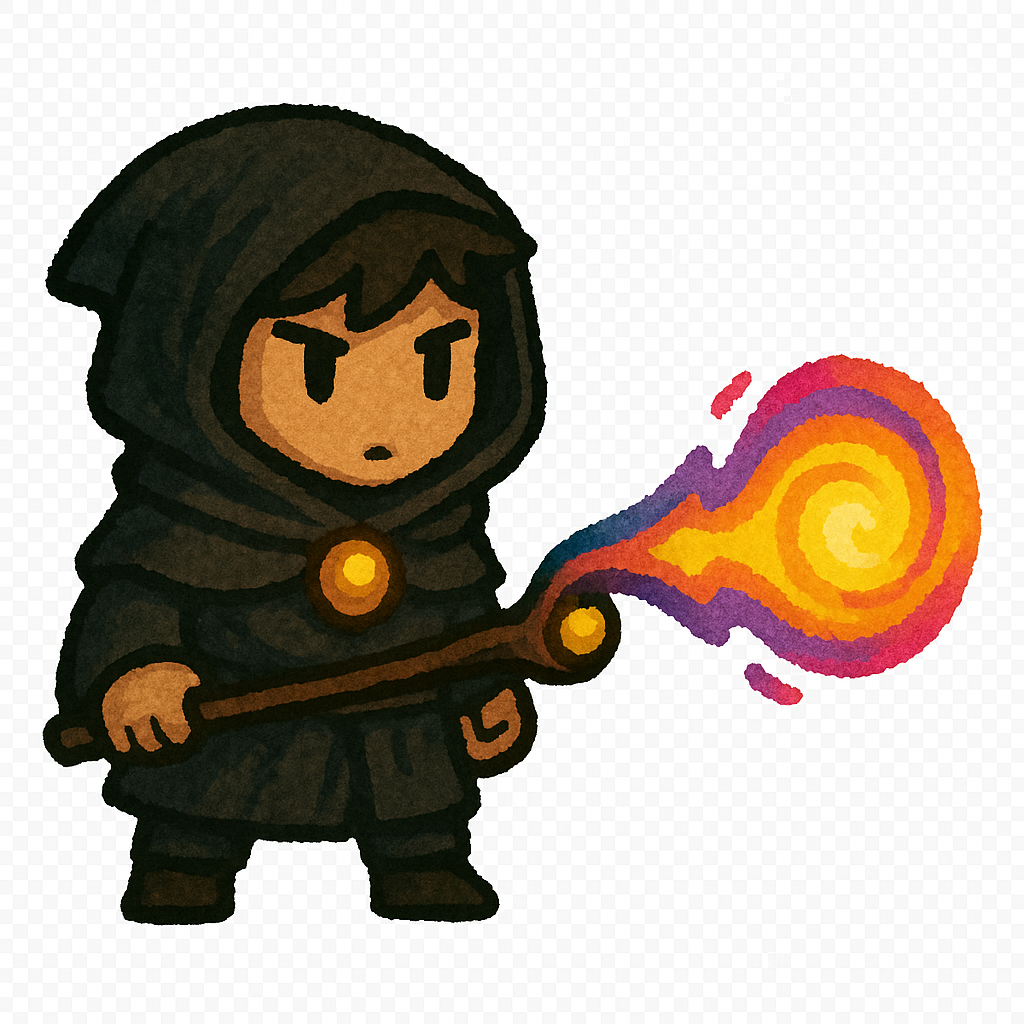
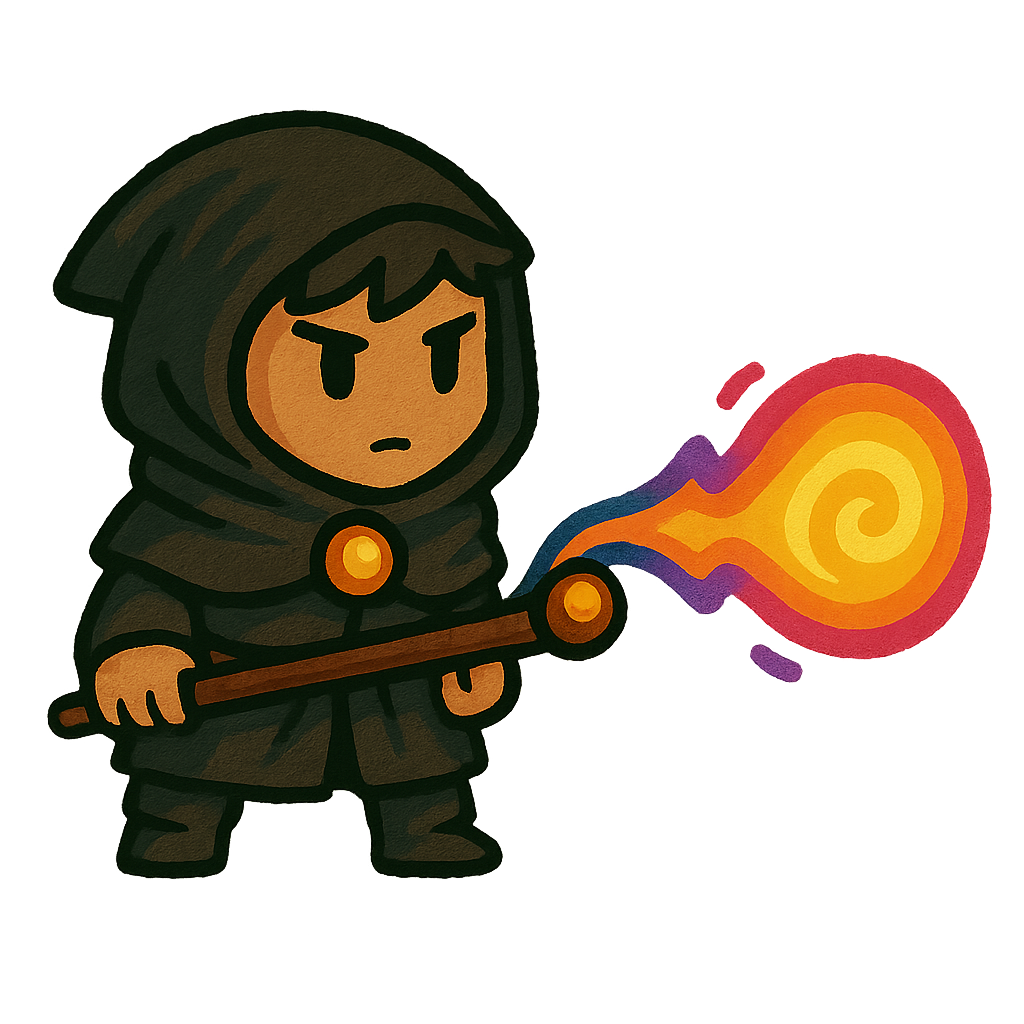
added weapon_change key (E) if E pressed character change between sword(no distance) and staff (distance projectil) both weapon mode attacks with (Q)

Changed region(s): [[0.0312, 0.0938, 0.9688, 0.9062], [0.2812, 0.1562, 0.3125, 0.1875], [0.0312, 0.25, 0.0625, 0.2812]]

diff --git a/main.py b/main.py
@@ -11,6 +11,7 @@ from objects_classes.tree import Tree
 from enemies_classes.goblin_mage import Goblin_Mage
 from enemies_classes.small_goblin import Small_Goblin
 from enemies_classes.wolf import Wolf
+from fire_shot import Fire_Shot
 
 FPS = 30
 WINWIDTH = 4* 240
@@ -52,7 +53,7 @@ def main():
     global FPSCLOCK, DISPLAYSURF, BASICFONT, BASICFONTLARGE, NUMSOFTREES
     global main_character, RHEROIMG, LHEROIMG, LENEMYIMG, RENEMYIMG, TREEIMG, treeimgheight, treeimgwidth,grass_tile_size, GRASSIMG, HEARTIMG, RBLACKHEARTIMG, LBLACKHEARTIMG
     global RSWORDPARTICLES, LSWORDPARTICLES, R2HEROIMG,L2HEROIMG, R3HEROIMG, L3HEROIMG, LGOBLINMAGEIMG, RGOBLINMAGEIMG, LSMALLGOBLINIMG, RSMALLGOBLINIMG
-    global RWOLF, LWOLF, RHEROMAGEIMG, LHEROMAGEIMG
+    global RWOLF, LWOLF, RHEROMAGEIMG, LHEROMAGEIMG, MANUALIMG, RHEROMAGEATTIMG, LHEROMAGEATTIMG, RMAGEPROJEKTIL, LMAGEPROJEKTIL
     pygame.init()
     FPSCLOCK = pygame.time.Clock()
     DISPLAYSURF = pygame.display.set_mode((WINWIDTH, WINHEIGHT))
@@ -77,6 +78,10 @@ def main():
     RHEROMAGEIMG = pygame.image.load('graphics/hero_img/hero_mage.png')
     RHEROMAGEIMG = pygame.transform.scale(RHEROMAGEIMG,(100, 100))
     LHEROMAGEIMG = pygame.transform.flip(RHEROMAGEIMG, True, False)
+
+    RHEROMAGEATTIMG = pygame.image.load('graphics/hero_img/hero_mage_attack.png')
+    RHEROMAGEATTIMG = pygame.transform.scale(RHEROMAGEATTIMG,(120, 120))
+    LHEROMAGEATTIMG = pygame.transform.flip(RHEROMAGEATTIMG, True, False)
     #enemy imgs
     LENEMYIMG = pygame.image.load('graphics/enemies_img/skull_enemy.png')
     LENEMYIMG = pygame.transform.scale(LENEMYIMG,(130, 100))
@@ -103,11 +108,19 @@ def main():
     GRASSIMG = pygame.image.load('graphics/other_img/grass_v3.png')
     GRASSIMG = pygame.transform.scale(GRASSIMG,(WINWIDTH,WINWIDTH))
 
+    MANUALIMG = pygame.image.load('graphics/other_img/manual.png')
+    MANUALIMG = pygame.transform.scale(MANUALIMG,(250,200))
+
     HEARTIMG = pygame.image.load('graphics/hero_img/heart.png')
     HEARTIMG = pygame.transform.scale(HEARTIMG, (20,20))
     RBLACKHEARTIMG = pygame.image.load('graphics/hero_img/black_heart_r.png')
     RBLACKHEARTIMG = pygame.transform.scale(RBLACKHEARTIMG, (20,20))
     LBLACKHEARTIMG = pygame.transform.flip(RBLACKHEARTIMG, True, False)
+
+    RMAGEPROJEKTIL = pygame.image.load('graphics/hero_img/hero_mage_projektil.png')
+    RMAGEPROJEKTIL = pygame.transform.scale(RMAGEPROJEKTIL, (50,50) )
+    LMAGEPROJEKTIL = pygame.transform.flip(RMAGEPROJEKTIL, True, False)
+
     RSWORDPARTICLES = pygame.image.load('graphics/hero_img/sword_particles.png')
     RSWORDPARTICLES = pygame.transform.scale(RSWORDPARTICLES, (120,180) )
     LSWORDPARTICLES = pygame.transform.flip(RSWORDPARTICLES, True, False)
@@ -123,7 +136,7 @@ def run_game():
     # initial values are set to defaul for easy reset
     global FPSCLOCK, DISPLAYSURF, main_character, NUMSOFTREES, NUMSENEMY
     global moveDown, moveLeft, moveRight, moveUp, camera_x, camera_y, attackKey
-    global gameOverMode, winMode, immortalityMode, immortalityStartTime, trees_objs, enemy1, enemy1_objs, goblinmage1_objs, smallgoblin1_objs
+    global gameOverMode, winMode, immortalityMode, immortalityStartTime, trees_objs, enemy1, enemy1_objs, goblinmage1_objs, smallgoblin1_objs, fire_shot_objs
     immortalityMode = False
     immortalityStartTime = 0
     gameOverMode = False        
@@ -135,8 +148,10 @@ def run_game():
     enemy1_objs = []
     goblinmage1_objs = []
     smallgoblin1_objs = []
+    fire_shot_objs = []
     # creating a Player Character
-    main_character = Hero(RHEROIMG, HALFWINWIDTH, HALFWINHEIGHT, STARTLEVEL, MAXHEALTH , HEARTIMG, RBLACKHEARTIMG, LBLACKHEARTIMG, RHEROMAGEIMG, LHEROMAGEIMG, LHEROIMG)
+    main_character = Hero(RHEROIMG, HALFWINWIDTH, HALFWINHEIGHT, STARTLEVEL, MAXHEALTH , HEARTIMG, RBLACKHEARTIMG, LBLACKHEARTIMG, RHEROMAGEIMG, LHEROMAGEIMG, LHEROIMG, Fire_Shot,
+                          RMAGEPROJEKTIL, LMAGEPROJEKTIL)
     
 
     moveLeft = False
@@ -242,6 +257,12 @@ def run_game():
         draw_hero(main_character,camera_x,camera_y,attackKey)
         main_character.draw_health_bar(DISPLAYSURF)
 
+        for (fireshot1) in fire_shot_objs:
+            check_for_fire_shot_collision(main_character, fireshot1, fireshot1.image,enemy1_objs)
+            check_for_fire_shot_collision(main_character, fireshot1, fireshot1.image,smallgoblin1_objs)
+            check_for_fire_shot_collision(main_character, fireshot1, fireshot1.image,goblinmage1_objs)
+
+
         for (enemy1) in enemy1_objs:
             draw_entity(enemy1, camera_x, camera_y)
             enemy1.move(main_character.position_x,main_character.position_y)
@@ -263,6 +284,21 @@ def run_game():
         for (smallgoblin1) in smallgoblin1_objs:         
             draw_entity(smallgoblin1, camera_x, camera_y)
             smallgoblin1.move(main_character.position_x,main_character.position_y)
+
+        for (fire_shot1) in fire_shot_objs:
+            for move in range(fire_shot1.difficulty):
+                """"
+                if fire_shot1.position_x - camera_x >  -WINWIDTH - camera_x:
+                    print("remove1")
+                    fire_shot_objs.remove(fire_shot1)
+                    break
+                if fire_shot1.position_x - camera_x < 0 -camera_x:
+                    print("remove2")
+                    fire_shot_objs.remove(fire_shot1)
+                    break
+                """
+                draw_entity(fire_shot1, camera_x, camera_y)
+                fire_shot1.move()
 
         for event in pygame.event.get(): # event handling cycle
             if event.type == QUIT:
@@ -362,7 +398,10 @@ def draw_hero(hero, camera_x, camera_y,attackKey): # draw player on screen
     heroRect.center = (hero.position_x - camera_x, hero.position_y - camera_y)
     DISPLAYSURF.blit(hero.image, heroRect)
     if attackKey == True:
-            hero_attack_sword(main_character)
+            if hero.weapon_mode == "sword":
+                hero_attack_sword(main_character)
+            elif hero.weapon_mode == "mage":
+                hero_attack_mage(main_character)
 
 
 def moving_hero(hero, moveLeft, moveRight, moveUp, moveDown): # move player
@@ -412,6 +451,8 @@ def hero_attack_sword(hero):
             draw_entity(enemy1, camera_x, camera_y)
         for (goblinmage1) in goblinmage1_objs:
             draw_entity(goblinmage1, camera_x, camera_y)
+        for (smallgoblin1) in smallgoblin1_objs:
+            draw_entity(smallgoblin1, camera_x, camera_y)
         hero.draw_health_bar(DISPLAYSURF)
         draw_entity(hero,camera_x-10,camera_y)
         pygame.display.update()
@@ -427,6 +468,8 @@ def hero_attack_sword(hero):
             draw_entity(enemy1, camera_x, camera_y)
         for (goblinmage1) in goblinmage1_objs:
             draw_entity(goblinmage1, camera_x, camera_y)
+        for (smallgoblin1) in smallgoblin1_objs:
+            draw_entity(smallgoblin1, camera_x, camera_y)
         draw_entity(hero,camera_x-10,camera_y)
         DISPLAYSURF.blit(RSWORDPARTICLES, particlesRect)
         pygame.display.update()
@@ -476,39 +519,40 @@ def hero_attack_sword(hero):
 
 def hero_attack_mage(hero):
     if hero.image == hero.rimage_mage:
-        hero.image = R2HEROIMG
+        hero.image = RHEROMAGEATTIMG
         draw_background()
         draw_trees(trees_objs)
         for (enemy1) in enemy1_objs:
             draw_entity(enemy1, camera_x, camera_y)
         for (goblinmage1) in goblinmage1_objs:
             draw_entity(goblinmage1, camera_x, camera_y)
+        for (smallgoblin1) in smallgoblin1_objs:
+            draw_entity(smallgoblin1, camera_x, camera_y)
         hero.draw_health_bar(DISPLAYSURF)
         draw_entity(hero,camera_x-10,camera_y)
         pygame.display.update()
         pygame.time.wait(5)
-        particlesRect = RSWORDPARTICLES.get_rect()
-        particlesRect.center = (hero.position_x+30 - camera_x, hero.position_y - camera_y)
-        DISPLAYSURF.blit(RSWORDPARTICLES, particlesRect)
+        fire_shot_objs1 = hero.generate_fire_shot()
+        fire_shot_objs.append(fire_shot_objs1)
+        draw_entity(fire_shot_objs1,camera_x,camera_y)
         pygame.display.update()
-        hero.image = R3HEROIMG
         draw_background()
         draw_trees(trees_objs)
         for (enemy1) in enemy1_objs:
             draw_entity(enemy1, camera_x, camera_y)
         for (goblinmage1) in goblinmage1_objs:
             draw_entity(goblinmage1, camera_x, camera_y)
+        for (smallgoblin1) in smallgoblin1_objs:
+            draw_entity(smallgoblin1, camera_x, camera_y)
         draw_entity(hero,camera_x-10,camera_y)
-        DISPLAYSURF.blit(RSWORDPARTICLES, particlesRect)
+        #DISPLAYSURF.blit(RSWORDPARTICLES, particlesRect)
         pygame.display.update()
         hero.image = hero.rimage_mage
-        check_for_attack_collision(hero, RSWORDPARTICLES, +30, enemy1_objs)
-        check_for_attack_collision(hero, RSWORDPARTICLES, +30, goblinmage1_objs)
-        check_for_attack_collision(hero, RSWORDPARTICLES, +30, smallgoblin1_objs)
+
                 
 
     if hero.image == hero.limage_mage:
-        hero.image = L2HEROIMG
+        hero.image = LHEROMAGEATTIMG
         draw_background()
         draw_trees(trees_objs)
         for (enemy1) in enemy1_objs:
@@ -521,11 +565,10 @@ def hero_attack_mage(hero):
         draw_entity(hero,camera_x-10,camera_y)
         pygame.display.update()
         pygame.time.wait(5)
-        particlesRect = LSWORDPARTICLES.get_rect()
-        particlesRect.center = (hero.position_x-30 - camera_x, hero.position_y - camera_y)
-        DISPLAYSURF.blit(LSWORDPARTICLES, particlesRect)
+        fire_shot_objs1 = hero.generate_fire_shot()
+        fire_shot_objs.append(fire_shot_objs1)
+        draw_entity(fire_shot_objs1,camera_x,camera_y)
         pygame.display.update()
-        hero.image = L3HEROIMG
         draw_background()
         draw_trees(trees_objs)
         for (enemy1) in enemy1_objs:
@@ -535,12 +578,9 @@ def hero_attack_mage(hero):
         for (smallgoblin1) in smallgoblin1_objs:
             draw_entity(smallgoblin1, camera_x, camera_y)
         draw_entity(hero,camera_x-10,camera_y)
-        DISPLAYSURF.blit(LSWORDPARTICLES, particlesRect)
+        #DISPLAYSURF.blit(LSWORDPARTICLES, particlesRect)
         pygame.display.update()
         hero.image = hero.limage_mage
-        check_for_attack_collision(hero, LSWORDPARTICLES, -30, enemy1_objs)
-        check_for_attack_collision(hero, LSWORDPARTICLES, -30, goblinmage1_objs)
-        check_for_attack_collision(hero, RSWORDPARTICLES, -30, smallgoblin1_objs)
     pass
 
 def check_for_attack_collision(hero, SWORDPARTICLES, z_value, enemy_obj):
@@ -550,12 +590,28 @@ def check_for_attack_collision(hero, SWORDPARTICLES, z_value, enemy_obj):
     for (enemy) in enemy_obj:
         enemyRect = enemy.get_enemy_rect(camera_x,camera_y)
         if particlesRect.colliderect(enemyRect):
-            enemy.is_hit(main_character.position_x,main_character.position_y)
+            enemy.is_hit(main_character.position_x,main_character.position_y, 1)
             if enemy.current_health == 0:
                 hero.level += 1
                 enemy_obj.remove(enemy)
                 if hero.current_health < hero.max_health:
                     hero.current_health += 1
+    pass
+
+def check_for_fire_shot_collision(hero,fireshot1, FIRESHOT, enemy_obj):
+    particles_width = FIRESHOT.get_width()
+    particles_height = FIRESHOT.get_height()
+    particlesRect = pygame.Rect(fireshot1.position_x-camera_x - particles_width//2,fireshot1.position_y-camera_y-particles_height//2, particles_width, particles_height)
+    for (enemy) in enemy_obj:
+        enemyRect = enemy.get_enemy_rect(camera_x,camera_y)
+        if particlesRect.colliderect(enemyRect):
+            enemy.is_hit(main_character.position_x,main_character.position_y, 1)
+            if enemy.current_health == 0:
+                hero.level += 1
+                enemy_obj.remove(enemy)
+                if hero.current_health < hero.max_health:
+                    hero.current_health += 1
+           
     pass
 
 def draw_background():
@@ -607,10 +663,11 @@ def game_over():
     level_surface = BASICFONT.render(f"Level achieved: {main_character.level}", False, WHITE)
     DISPLAYSURF.blit(text_surface,(125,50))
     DISPLAYSURF.blit(level_surface,(240,255))
+    DISPLAYSURF.blit(MANUALIMG,(700,500))
     draw_hero(main_character,0,0,False)
 
     button("Try Again", 100, 550,WHITE,DARKGREEN)
-    button("Quit", 2*HALFWINWIDTH-300,550,WHITE,DARKRED)
+    button("Quit", 2*HALFWINWIDTH-450,550,WHITE,DARKRED)
 
     try:
         get_qr(f"Hero level: {main_character.level}") # More info in the future (max wave, max hps, etc...)
@@ -634,10 +691,10 @@ def game_over():
                 else:
                     button("Try Again", 100, 550, WHITE,DARKGREEN)
 
-                if (2*HALFWINWIDTH-300 < mouse_x < 2*HALFWINWIDTH+138) and (550 < mouse_y < 592):
-                    button("Quit", 2*HALFWINWIDTH-300,550,DARKRED,WHITE)
+                if (2*HALFWINWIDTH-450 < mouse_x < 2*HALFWINWIDTH-288) and (550 < mouse_y < 592):
+                    button("Quit", 2*HALFWINWIDTH-450,550,DARKRED,WHITE)
                 else:
-                    button("Quit", 2*HALFWINWIDTH-300,550,WHITE,DARKRED)
+                    button("Quit", 2*HALFWINWIDTH-450,550,WHITE,DARKRED)
 
             #                if ()
             
@@ -647,7 +704,7 @@ def game_over():
                 if (100 < mouse_x < 262) and (550 < mouse_y < 592):
                     run_game() # not sure of the recursion 
                     return
-                elif (2*HALFWINWIDTH-300 < mouse_x < 2*HALFWINWIDTH+138) and (550 < mouse_y < 592):
+                elif (960-450 < mouse_x < 940-288) and (550 < mouse_y < 592):
                     terminate()
 
     

diff --git a/hero.py b/hero.py
@@ -1,7 +1,8 @@
 import pygame
 
 class Hero():
-    def __init__(self,image, position_x, position_y, level, max_health, heart_image,bheart_r_image,bheart_l_image, image_mage, limage_mage, l_image):
+    def __init__(self,image, position_x, position_y, level, max_health, heart_image,bheart_r_image,bheart_l_image, image_mage, limage_mage, l_image, fire_shot_class,
+                  rfire_shot_img, lfire_shot_img):
         self.position_x : int = position_x
         self.position_y : int = position_y
         self.current_health : int = max_health
@@ -17,6 +18,10 @@ class Hero():
         self.bheart_l_image : str = bheart_l_image
         self.weapon_mode = "sword"
         self.direction = "right"
+        self.fire_shots_objs = None
+        self.fire_shot_class = fire_shot_class
+        self.rfire_shotimg = rfire_shot_img
+        self.lfire_shotimg = lfire_shot_img
     
     def is_alive(self):
         if self.current_health <= 0:
@@ -60,4 +65,17 @@ class Hero():
             elif self.direction == "left":
                 self.image = self.limage_sword
                 self.weapon_mode = "sword"
+        pass
+
+    def generate_fire_shot(self):
+        if self.direction == "right":
+            fsimage = self.rfire_shotimg
+            xpos = self.position_x +60
+        elif self.direction == "left":
+            xpos = self.position_x -60
+            fsimage = self.lfire_shotimg
+        ypos = self.position_y
+        return self.fire_shot_class(fsimage, xpos, ypos, 12, self.direction)
+         
+
         pass

diff --git a/fire_shot.py b/fire_shot.py
@@ -1,0 +1,29 @@
+import random, pygame
+
+class Fire_Shot():
+    def __init__(self, image,position_x, position_y, difficulty, direction):
+        self.position_x : int = position_x
+        self.position_y : int = position_y
+        self.difficulty : int = difficulty 
+        self.image : str = image 
+        self.direction = direction
+
+    
+    
+    def move(self):
+        if self.direction == "right":
+            self.position_x += 1
+        elif self.direction == "left":
+            self.position_x -=1
+       
+
+    def get_enemy_rect(self,camera_x,camera_y):
+        enemy_width = self.image.get_width()
+        enemy_height = self.image.get_height()
+        enemyRect = pygame.Rect(self.position_x-camera_x - enemy_width//2, self.position_y-camera_y-enemy_height//2, enemy_width, enemy_height)
+        return enemyRect
+    
+    def get_enemy_attackbox(self,camera_x,camera_y):
+        enemyRect = pygame.Rect(self.position_x-camera_x - 1, self.position_y-camera_y - 1, 2, 2)
+        return enemyRect
+        

diff --git a/enemies_classes/small_goblin.py b/enemies_classes/small_goblin.py
@@ -106,12 +106,9 @@ class Small_Goblin():
         enemyRect = pygame.Rect(self.position_x-camera_x - 1, self.position_y-camera_y - 1, 2, 2)
         return enemyRect
         
-    def is_hit(self, player_x, player_y):
-
-        self.current_health -= 1
-
+    def is_hit(self, player_x, player_y, damage):
+        self.current_health -= damage
         enemy_player_vector = [(self.position_x - player_x),(self.position_y - player_y)]
-
         if enemy_player_vector[0] < 0:
             enemy_player_vector[0] = -self.knockback
         else:
@@ -120,7 +117,6 @@ class Small_Goblin():
         if enemy_player_vector[1] < 0:
             enemy_player_vector[1] = -self.knockback
         else:
-            enemy_player_vector[1] = self.knockback
-        
+            enemy_player_vector[1] = self.knockback    
         self.position_x += enemy_player_vector[0]
         self.position_y += enemy_player_vector[1]

diff --git a/enemies_classes/enemy.py b/enemies_classes/enemy.py
@@ -106,8 +106,8 @@ class Enemy():
         enemyRect = pygame.Rect(self.position_x-camera_x - 1, self.position_y-camera_y - 1, 2, 2)
         return enemyRect
         
-    def is_hit(self, player_x, player_y):
-        self.current_health -= 1
+    def is_hit(self, player_x, player_y, damage):
+        self.current_health -= damage
         enemy_player_vector = [(self.position_x - player_x),(self.position_y - player_y)]
         if enemy_player_vector[0] < 0:
             enemy_player_vector[0] = -self.knockback

diff --git a/enemies_classes/goblin_mage.py b/enemies_classes/goblin_mage.py
@@ -123,8 +123,8 @@ class Goblin_Mage():
             self.small_goblin_objs.append(small_goblin)
         pass
 
-    def is_hit(self, player_x, player_y):
-        self.current_health -= 1
+    def is_hit(self, player_x, player_y, damage):
+        self.current_health -= damage
         pass
 
     def update(self): # matches time with main and check if its time for spawn
